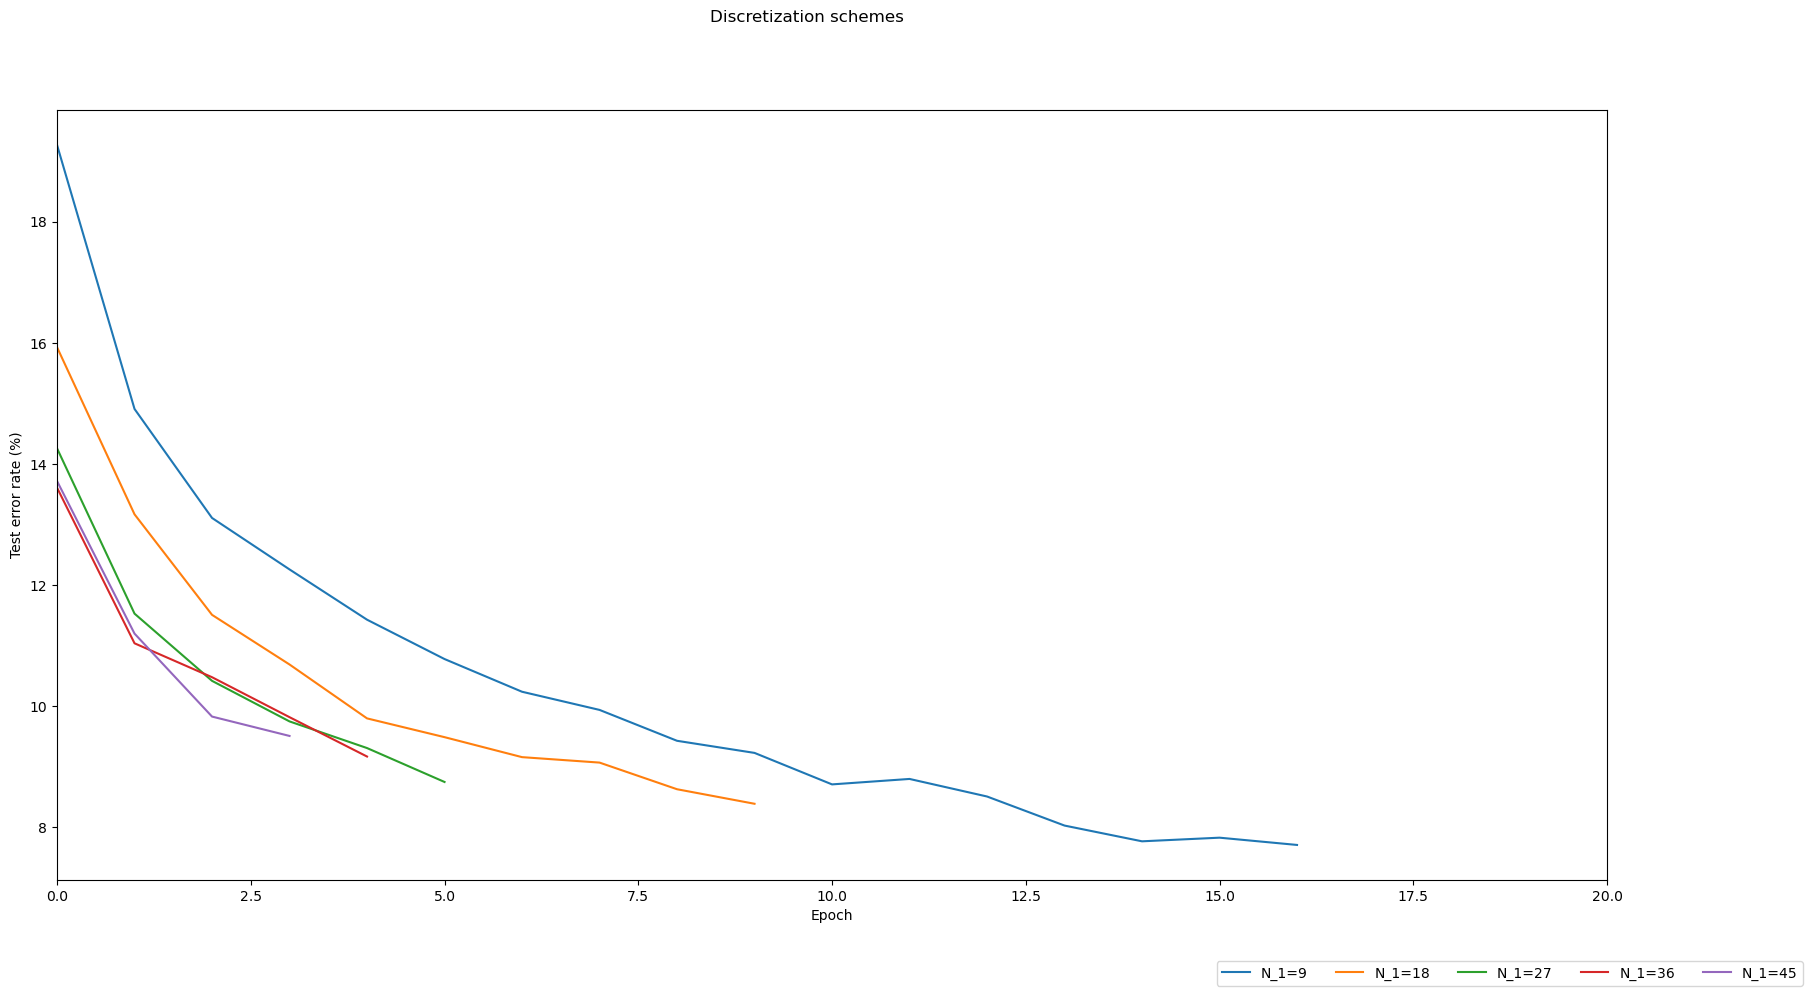
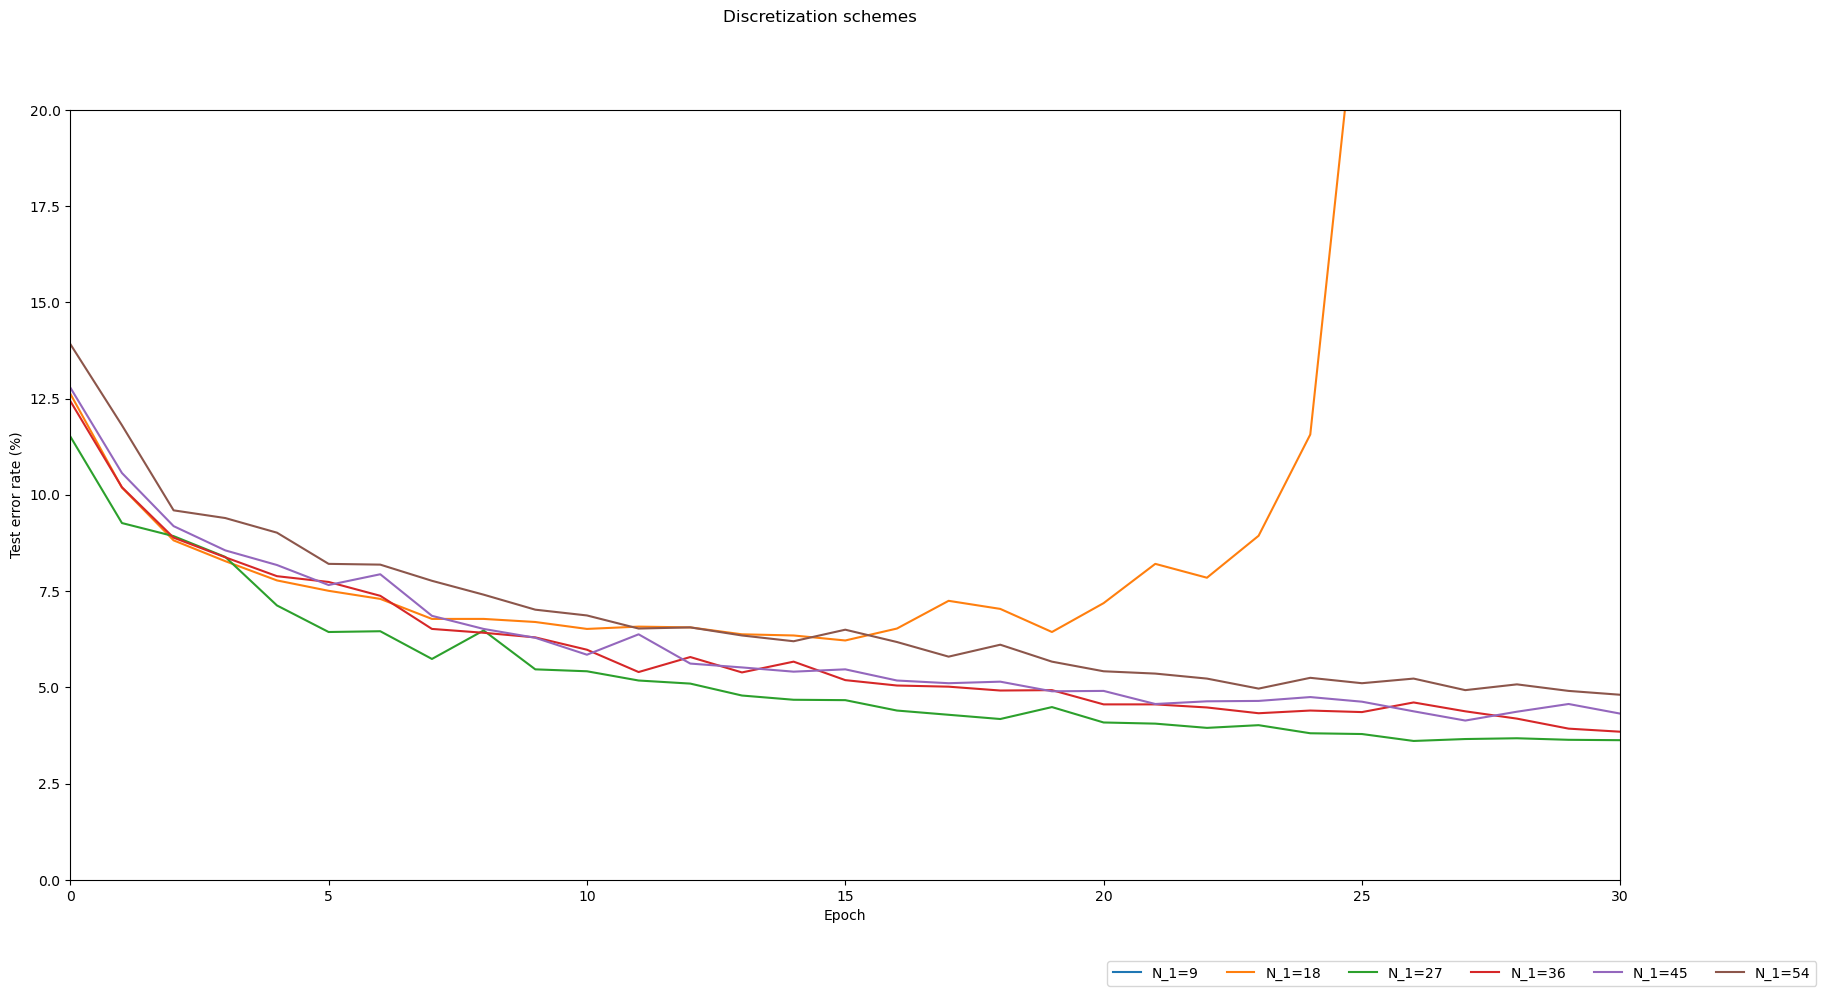
wip

diff --git a/graphUtil.py b/graphUtil.py
@@ -25,7 +25,7 @@ def csv2array(directory):
         train_error,test_error = error[:,0],error[:,1]
     return train_error, test_error
 
-#
+
 # fig, ax = plt.subplots(2,5,figsize=(25,10))
 # # fig.tight_layout()
 # labels=['spiking','nonspiking']
@@ -46,23 +46,41 @@ def csv2array(directory):
 # fig.legend(labels, loc='lower right', ncol=len(labels), bbox_transform=fig.transFigure)
 # fig.savefig('cepalt_error.png')#,bbox_inches="tight")
 
-
+# Plot various levels of discretization for nonspiking cepalt
 fig, ax = plt.subplots(figsize=(20,10))
 N1=[3*Kmax for Kmax in [3,6,9,12,15,18]]
-labels=[r'N_1='+str(N1[i]) for i in range(5)]
-disc_test_dir = ["cepalt_nonspiking_"+str(i) for i in range(5)]
-error = [csv2array(disc_test_dir[i]) for i in range(5)]
-for i in range(5):
+labels=[r'N_1='+str(N1[i]) for i in range(6)]
+disc_test_dir = ["cepalt_nonspiking_"+str(i) for i in range(6)]
+error = [csv2array(disc_test_dir[i]) for i in range(6)]
+for i in range(6):
     ax.plot(error[i][1])
 ax.set_xlabel('Epoch')
 ax.set_ylabel('Test error rate (%)')
-ax.set_xlim([0,20])
+ax.set_xlim([0,30])
+ax.set_ylim([0,20])
 # ax.set_title()
-fig.suptitle(r"Discretization schemes")
+fig.suptitle(r"Nonspiking Discretization schemes")
 fig.legend(labels, loc='lower right', ncol=len(labels), bbox_transform=fig.transFigure)
-fig.savefig('discretization.png',bbox_inches="tight")
+fig.savefig('nonspiking_discretization.png',bbox_inches="tight")
 
+# Plot various levels of discretization for nonspiking cepalt
+fig, ax = plt.subplots(figsize=(20,10))
+N1=[3*Kmax for Kmax in [3,6,9,12,15,18]]
+labels=[r'N_1='+str(N1[i]) for i in range(6)]
+disc_test_dir = ["cepalt_spiking_"+str(i) for i in range(6)]
+error = [csv2array(disc_test_dir[i]) for i in range(6)]
+for i in range(6):
+    ax.plot(error[i][1])
+ax.set_xlabel('Epoch')
+ax.set_ylabel('Test error rate (%)')
+ax.set_xlim([0,30])
+ax.set_ylim([0,20])
+# ax.set_title()
+fig.suptitle(r"Spiking Discretization schemes")
+fig.legend(labels, loc='lower right', ncol=len(labels), bbox_transform=fig.transFigure)
+fig.savefig('spiking_discretization.png',bbox_inches="tight")
 
+# Spiking vs nonspiking cepalt for various levels of discretization
 fig, ax = plt.subplots(2,3,figsize=(20,10))
 # fig.tight_layout()
 labels=['spiking','nonspiking']
@@ -78,7 +96,7 @@ for i in range(6):
     ax[i//3,i%3].set_ylabel('Test error rate (%)')
     ax[i//3,i%3].set_xlim([0,30])
     ax[i//3,i%3].set_ylim([0,20])
-    ax[i//3,i%3].set_title(r'$N_1=$'+str(3*N2[i])+', $N_2=$'+str(N2[i])+', dt = '+'{:.2f}'.format(1-(2**(-20/(3*N2[i])))))
+    ax[i//3,i%3].set_title(r'$N_1=$'+str(3*N2[i])+', $N_2=$'+str(N2[i])+', dt = '+'{:.2f}'.format(1-np.exp(-5.357/N2[i])))
 fig.suptitle(r"Test error for spiking and nonspiking dynamics ($\beta = 0.2$)",fontsize=20)
 fig.legend(labels, loc='lower right', ncol=len(labels), bbox_transform=fig.transFigure)
 fig.savefig('cepalt_error_b.png')#,bbox_inches="tight")
@@ -88,7 +106,7 @@ fig.savefig('cepalt_error_b.png')#,bbox_inches="tight")
 
 fig, ax = plt.subplots(2,4,figsize=(20,10))
 labels=['spiking','nonspiking','stdp']
-
+N2 = [3*i for i in range(1,11)]
 for i in range(8):
     spiking_dir = 'skewsym_spiking_'+str(i)
     nonspiking_dir = 'skewsym_nonspiking_'+str(i)
@@ -191,17 +209,17 @@ fig.legend(labels, loc='lower right', ncol=len(labels), bbox_transform=fig.trans
 fig.savefig('cepalt_vs_skewsym.png')#,bbox_inches="tight")
 
 
-fig, ax = plt.subplots(figsize=(20,10))
-N1=[3*Kmax for Kmax in [3,6,9,12,15]]
-labels=[r'N_1='+str(N1[i]) for i in range(5)]
-disc_test_dir = ["disc_test_"+str(i) for i in range(5)]
-error = [csv2array(disc_test_dir[i]) for i in range(5)]
-for i in range(5):
-    ax.plot(error[i][1])
-ax.set_xlabel('Epoch')
-ax.set_ylabel('Test error rate (%)')
-ax.set_xlim([0,20])
-# ax.set_title()
-fig.suptitle(r"Discretization schemes")
-fig.legend(labels, loc='lower right', ncol=len(labels), bbox_transform=fig.transFigure)
-fig.savefig('discretization.png',bbox_inches="tight")
+# fig, ax = plt.subplots(figsize=(20,10))
+# N1=[3*Kmax for Kmax in [3,6,9,12,15]]
+# labels=[r'N_1='+str(N1[i]) for i in range(5)]
+# disc_test_dir = ["disc_test_"+str(i) for i in range(5)]
+# error = [csv2array(disc_test_dir[i]) for i in range(5)]
+# for i in range(5):
+#     ax.plot(error[i][1])
+# ax.set_xlabel('Epoch')
+# ax.set_ylabel('Test error rate (%)')
+# ax.set_xlim([0,20])
+# # ax.set_title()
+# fig.suptitle(r"Discretization schemes")
+# fig.legend(labels, loc='lower right', ncol=len(labels), bbox_transform=fig.transFigure)
+# fig.savefig('discretization.png',bbox_inches="tight")

diff --git a/main.py b/main.py
@@ -199,17 +199,17 @@ parser.add_argument(
 parser.add_argument(
     '--tau-dynamic',
     type=float,
-    default=0.8411,
+    default=2.8,#0.8411,
     help='time constant for dynamics')
 parser.add_argument(
     '--tau-trace',
     type=float,
-    default=0.4328,
+    default=1.44,#0.4328,
     help='decay factor for traces')
 parser.add_argument(
     '--max_fr',
     type=float,
-    default=3.333,
+    default=1#,3.333,
     help='maximum activity / firing rate')
 
 
@@ -217,7 +217,8 @@ args = parser.parse_args()
 
 # New this should create consistency as we change the number of steps
 if args.step==None:
-    args.step=4.5/args.Kmax
+    # args.step=4.5/args.Kmax
+    args.step=15./args.Kmax
 
 if args.dt==None:
     # args.dt = 1-(2**(-20/args.T))
